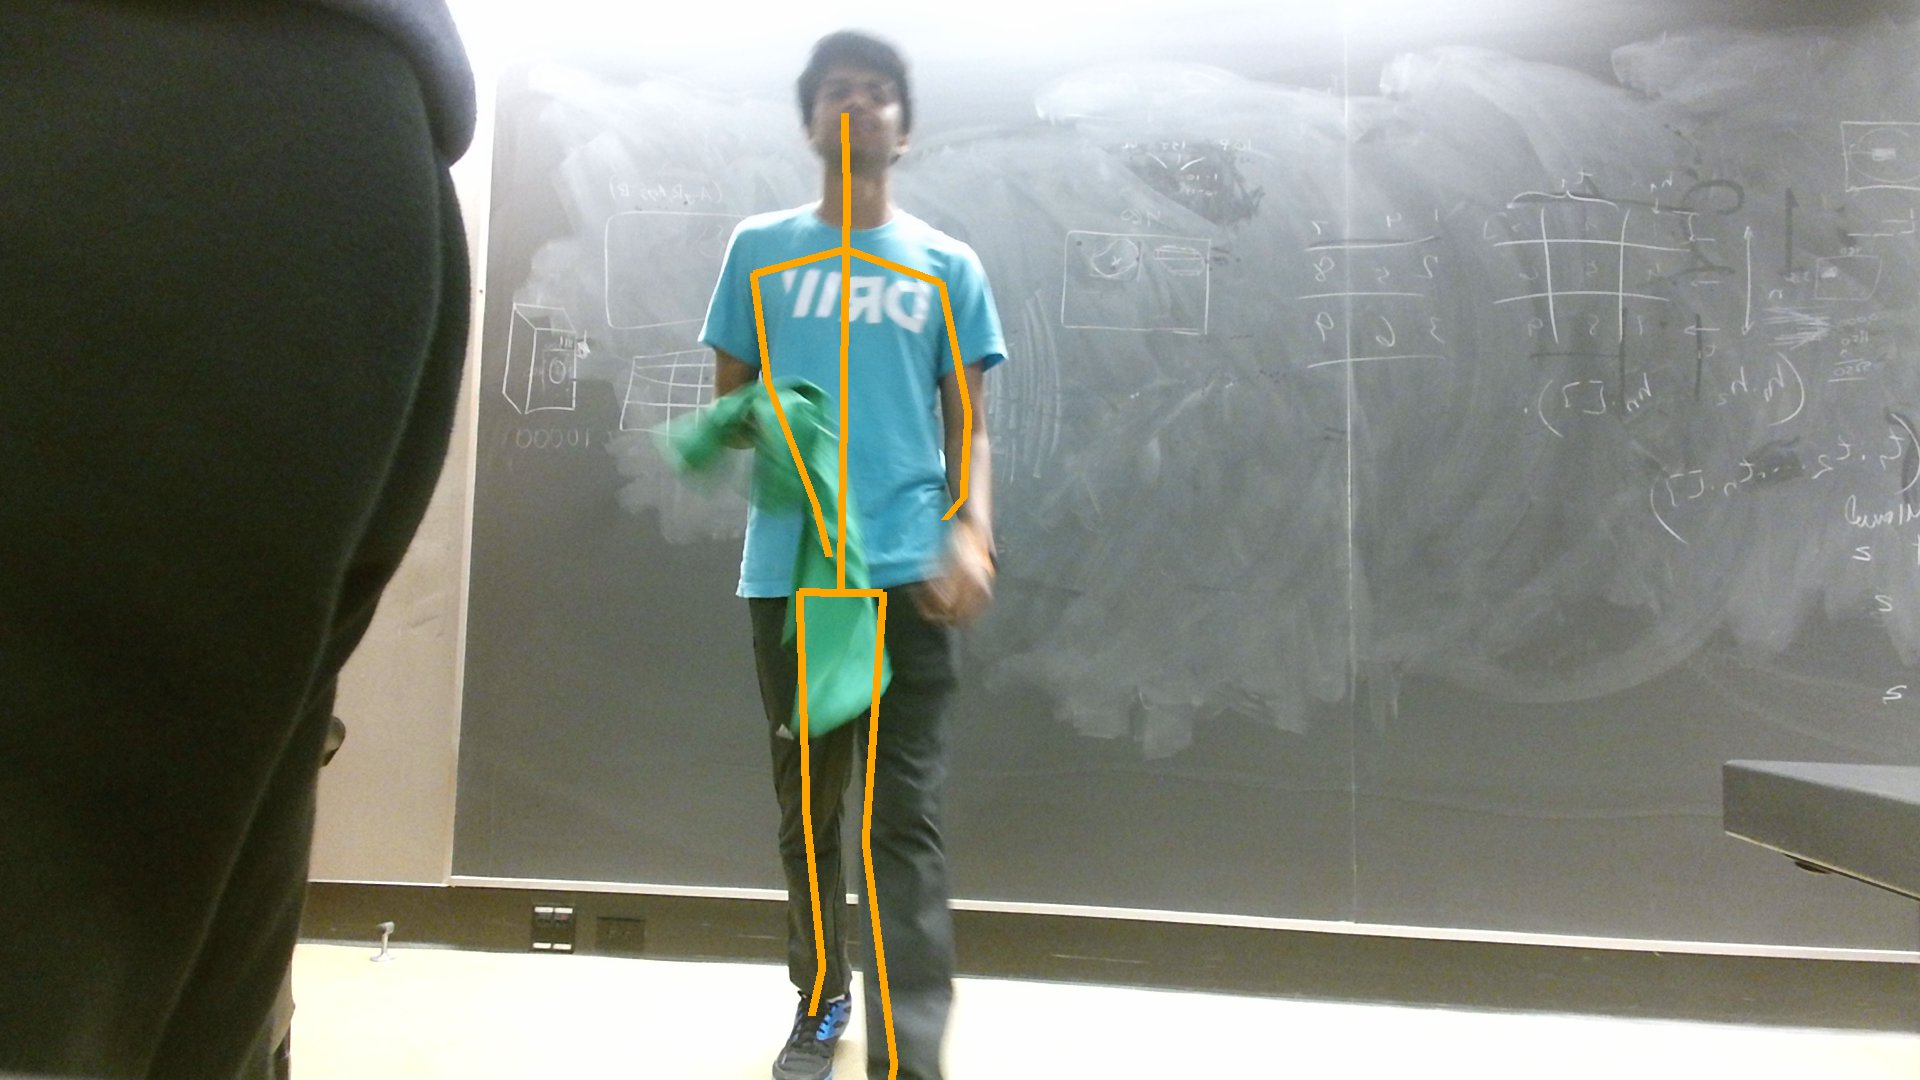
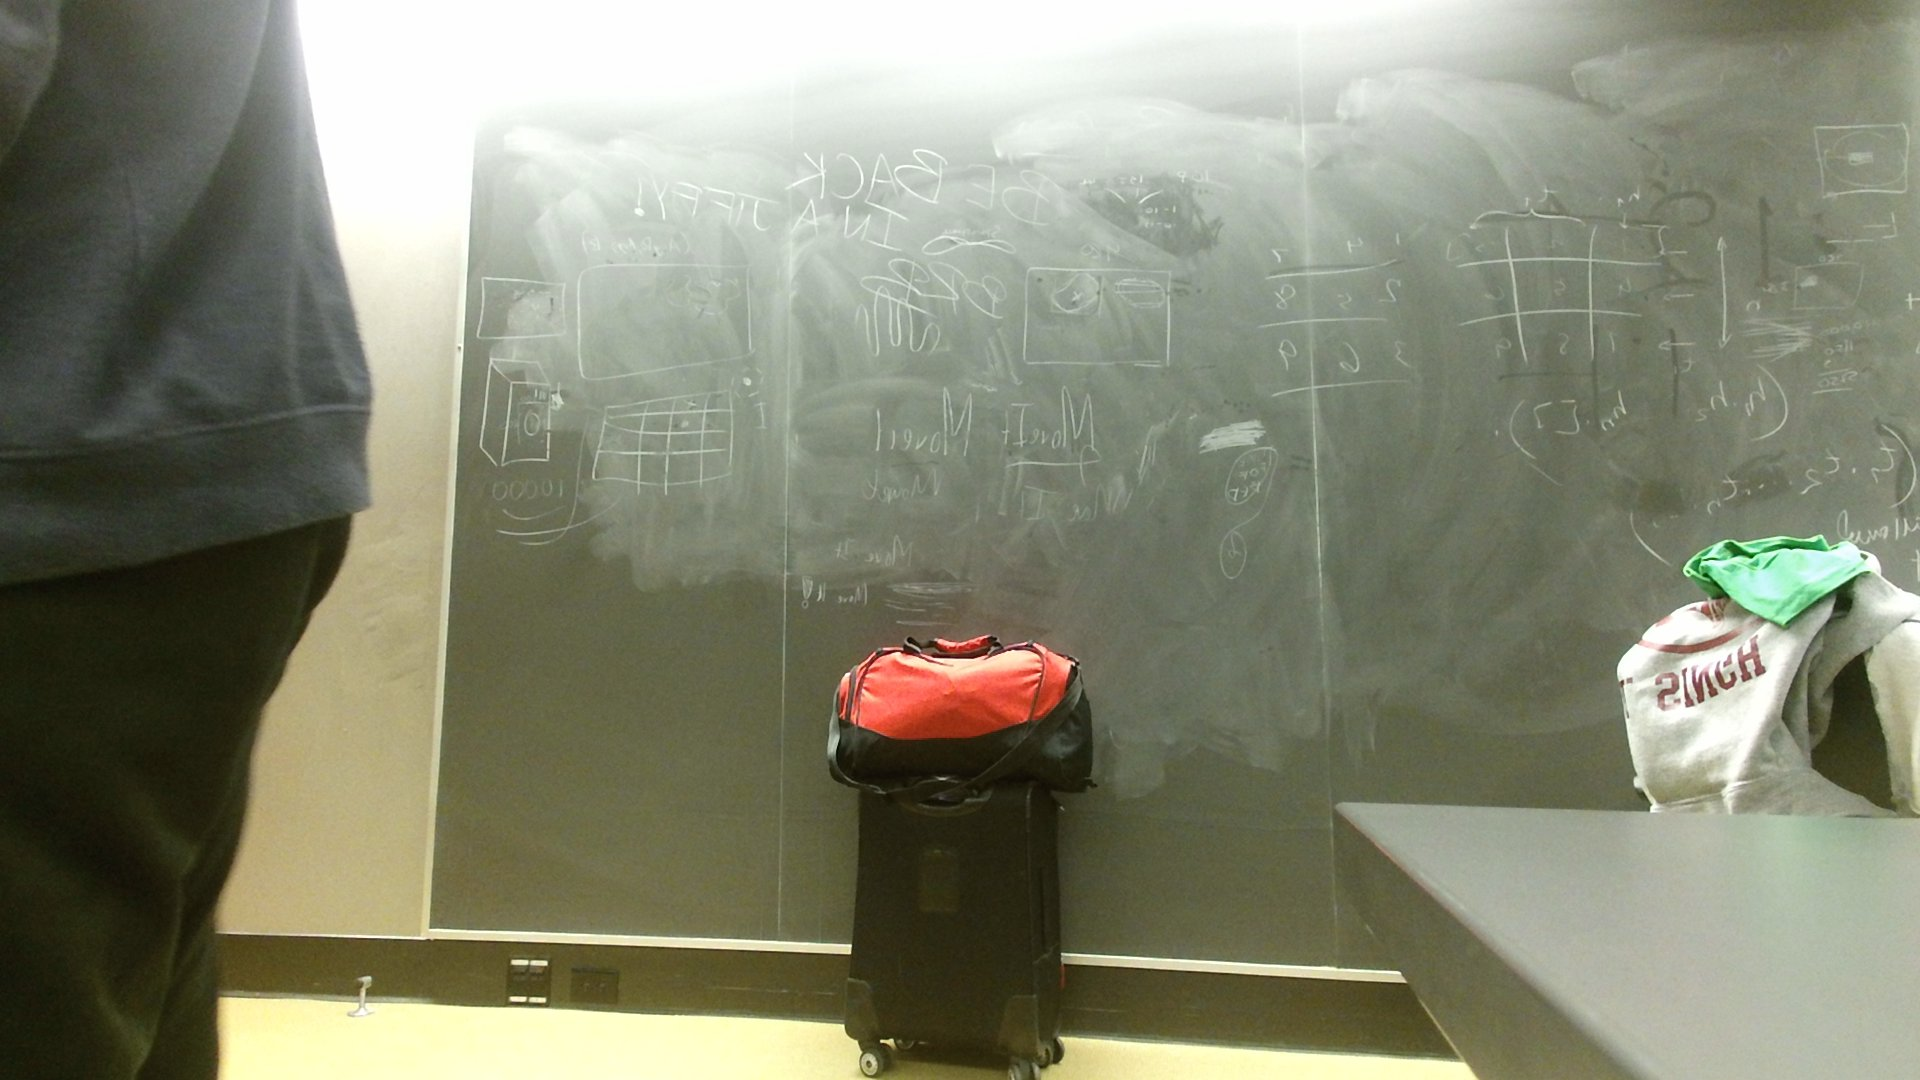
Main Things are Working

diff --git a/PyKinectBodyGameROX.py b/PyKinectBodyGameROX.py
@@ -7,6 +7,8 @@ import _ctypes
 import pygame
 import sys
 
+from edgeN import grabObject
+
 from pickle import dump
 
 if sys.hexversion >= 0x03000000:
@@ -15,7 +17,7 @@ else:
     import thread
 
 # colors for drawing different bodies 
-SKELETON_COLORS = [pygame.color.THECOLORS["sky blue"], 
+SKELETON_COLORS = [pygame.color.THECOLORS["orange"], 
                   pygame.color.THECOLORS["blue"], 
                   pygame.color.THECOLORS["green"], 
                   pygame.color.THECOLORS["orange"], 
@@ -43,6 +45,7 @@ class BodyGameRuntime(object):
 
         # Used to manage how fast the screen updates
         self._clock = pygame.time.Clock()
+        self.masterTime = 0
 
         # Kinect runtime object, we want only color and body frames 
         self._kinect = PyKinectRuntime.PyKinectRuntime(PyKinectV2.FrameSourceTypes_Color | PyKinectV2.FrameSourceTypes_Body)
@@ -53,6 +56,15 @@ class BodyGameRuntime(object):
 
         # here we will store skeleton data 
         self._bodies = None
+        
+        #this will be the latest time save
+        self._lastTime = 0
+        self._closed = False
+        self._pickedup = False
+        self.TAKE_SCREENSHOT = True
+
+
+        
 
 
     def draw_body_bone(self, joints, jointPoints, color, joint0, joint1):
@@ -216,6 +228,8 @@ class BodyGameRuntime(object):
                         PyKinectV2.JointType_SpineBase]
         grandTime = 0
 
+        
+        
 
 
         
@@ -224,6 +238,12 @@ class BodyGameRuntime(object):
         while not self._done:
             # --- Main event loop
 
+            #print(self.masterTime)
+            if (self.masterTime >= 1500 and self.TAKE_SCREENSHOT):
+                ##print (PyKinectV2.HandState_NotTracked)
+                ##if (TAKE_SCREENSHOT):
+                pygame.image.save(self._frame_surface, "startPage.jpeg")
+                self.TAKE_SCREENSHOT = False
             for event in pygame.event.get(): # User did something
                 if event.type == pygame.QUIT: # If user clicked close
                     #print(mainDict[11])  # testing dict values by printing
@@ -279,16 +299,17 @@ class BodyGameRuntime(object):
 
 
 
-                    TAKE_SCREENSHOT = True
-                    ##print (PyKinectV2.HandState_NotTracked)
-                    if (TAKE_SCREENSHOT):
-                        pygame.image.save(self._frame_surface, "startPage.jpeg")
-                        TAKE_SCREENSHOT = False
+                    
 
+                   
                    
 
                     #if (abs(leftTip-leftWrist) <= delta):
                     #   print("Peepadoo")
+
+
+
+
 
                     if (self.checkHand(jointsList)):
                         #print ("hand closed")
@@ -297,6 +318,31 @@ class BodyGameRuntime(object):
                         (width,height) = self.img.get_size()
                         (x0,y0) = (x-width/2,y-height/2)
                         self._frame_surface.blit(self.img, (x0,y0))
+
+                        (widthFrame,heightFrame) = self._frame_surface.get_size()
+                        print("first time=", self._clock.get_rawtime())
+                        #print("x = ",int(x))
+                        #print("y = ",int(y))
+                        #print("xF = ",x + widthFrame/2)
+                        #print("yF = ",heightFrame/2 - y)
+
+                        if (not self._pickedup):
+                            grabObject("startPage.jpeg",int(x),int(y))
+                            self._pickedup = True
+
+                        #print("second time=",self._clock.get_rawtime())
+
+                        self.outputIMG = pygame.image.load('output.png')
+                        (widthOut, heightOut) = self.outputIMG.get_size()
+                        (xOut, yOut) = (x - widthOut/2, y - heightOut/2)
+                        self._frame_surface.blit(self.outputIMG, (xOut, yOut))
+
+                        
+
+
+
+
+
        
                         
                     
@@ -325,6 +371,7 @@ class BodyGameRuntime(object):
 
 
             # --- Limit to 60 frames per second
+            self.masterTime += self._clock.get_rawtime()
             self._clock.tick(20)
 
 
@@ -337,3 +384,8 @@ __main__ = "Kinect v2 Body Game"
 game = BodyGameRuntime();
 game.run();
 
+
+
+#hand opening starts a timer
+#timer must be open for a second to place.
+#if hand recloses 

diff --git a/edgeN.py b/edgeN.py
@@ -1,7 +1,7 @@
 from PIL import Image
 import random
 import math
-import Queue
+#import Queue
 
 
 
@@ -12,16 +12,17 @@ class pixel:
        self.g = g
        self.b = b
 
-def createMatrix(nums, image, WIDTH, HEIGHT, (pr, pc)):
-	matrix = {}
-	for r in range(pr-150, pr+150):
-		for c in range(pc-150, pc+150):
-			if(r <= 0 or r >= HEIGHT-1 or c <= 0 or c >= WIDTH-1):
-				continue
-			p = nums[WIDTH*r + c]
-			matrix[(r,c)] = pixel(p[0], p[1], p[2])
+def createMatrix(nums, image, WIDTH, HEIGHT, pt):
+    (pr, pc) = pt
+    matrix = {}
+    for r in range(pr-150, pr+150):
+        for c in range(pc-150, pc+150):
+            if(r <= 0 or r >= HEIGHT-1 or c <= 0 or c >= WIDTH-1):
+                continue
+            p = nums[WIDTH*r + c]
+            matrix[(r,c)] = pixel(p[0], p[1], p[2])
 
-	return matrix
+    return matrix
 
 def calculateAverageColor(matrix, r, c):
 	(avgR, avgG, avgB) = (0, 0, 0)
@@ -47,20 +48,6 @@ def cropppedImage(matrix, center, avg, WIDTH, HEIGHT):
 				selectedObj[(i,j)] = 1
 			else:
 				selectedObj[(i,j)] = 0
-
-	for i in range(r-150, r+150):
-		seen = (False, -1)
-		for j in range(c-150, c+150):
-			if(i <= 0 or i >= HEIGHT-1 or j <= 0 or j >= WIDTH-1):
-				continue
-			if(selectedObj[(i,j)] == 1):
-				if(seen[0] == True):
-					for p in range(seen[1], j):
-						selectedObj[(i,p)] = 1
-					seen = (True, j)
-				else:
-					seen = (True, j)
-				
 
 	return selectedObj
 
@@ -92,7 +79,7 @@ def grabObject(backgroundImg, x, y):
 				(red, green, blue, a) = (100, 100, 100, 0)
 			pix[c - (x-150), r - (y-150)] = (red, green, blue, a)
 
-	im.save("bluesclues.png", "PNG")
+	im.save("output.png", "PNG")
 
 
-grabObject("bluesclues.jpg", 376, 81)
+#grabObject("bluesclues.jpg", 376, 81)
